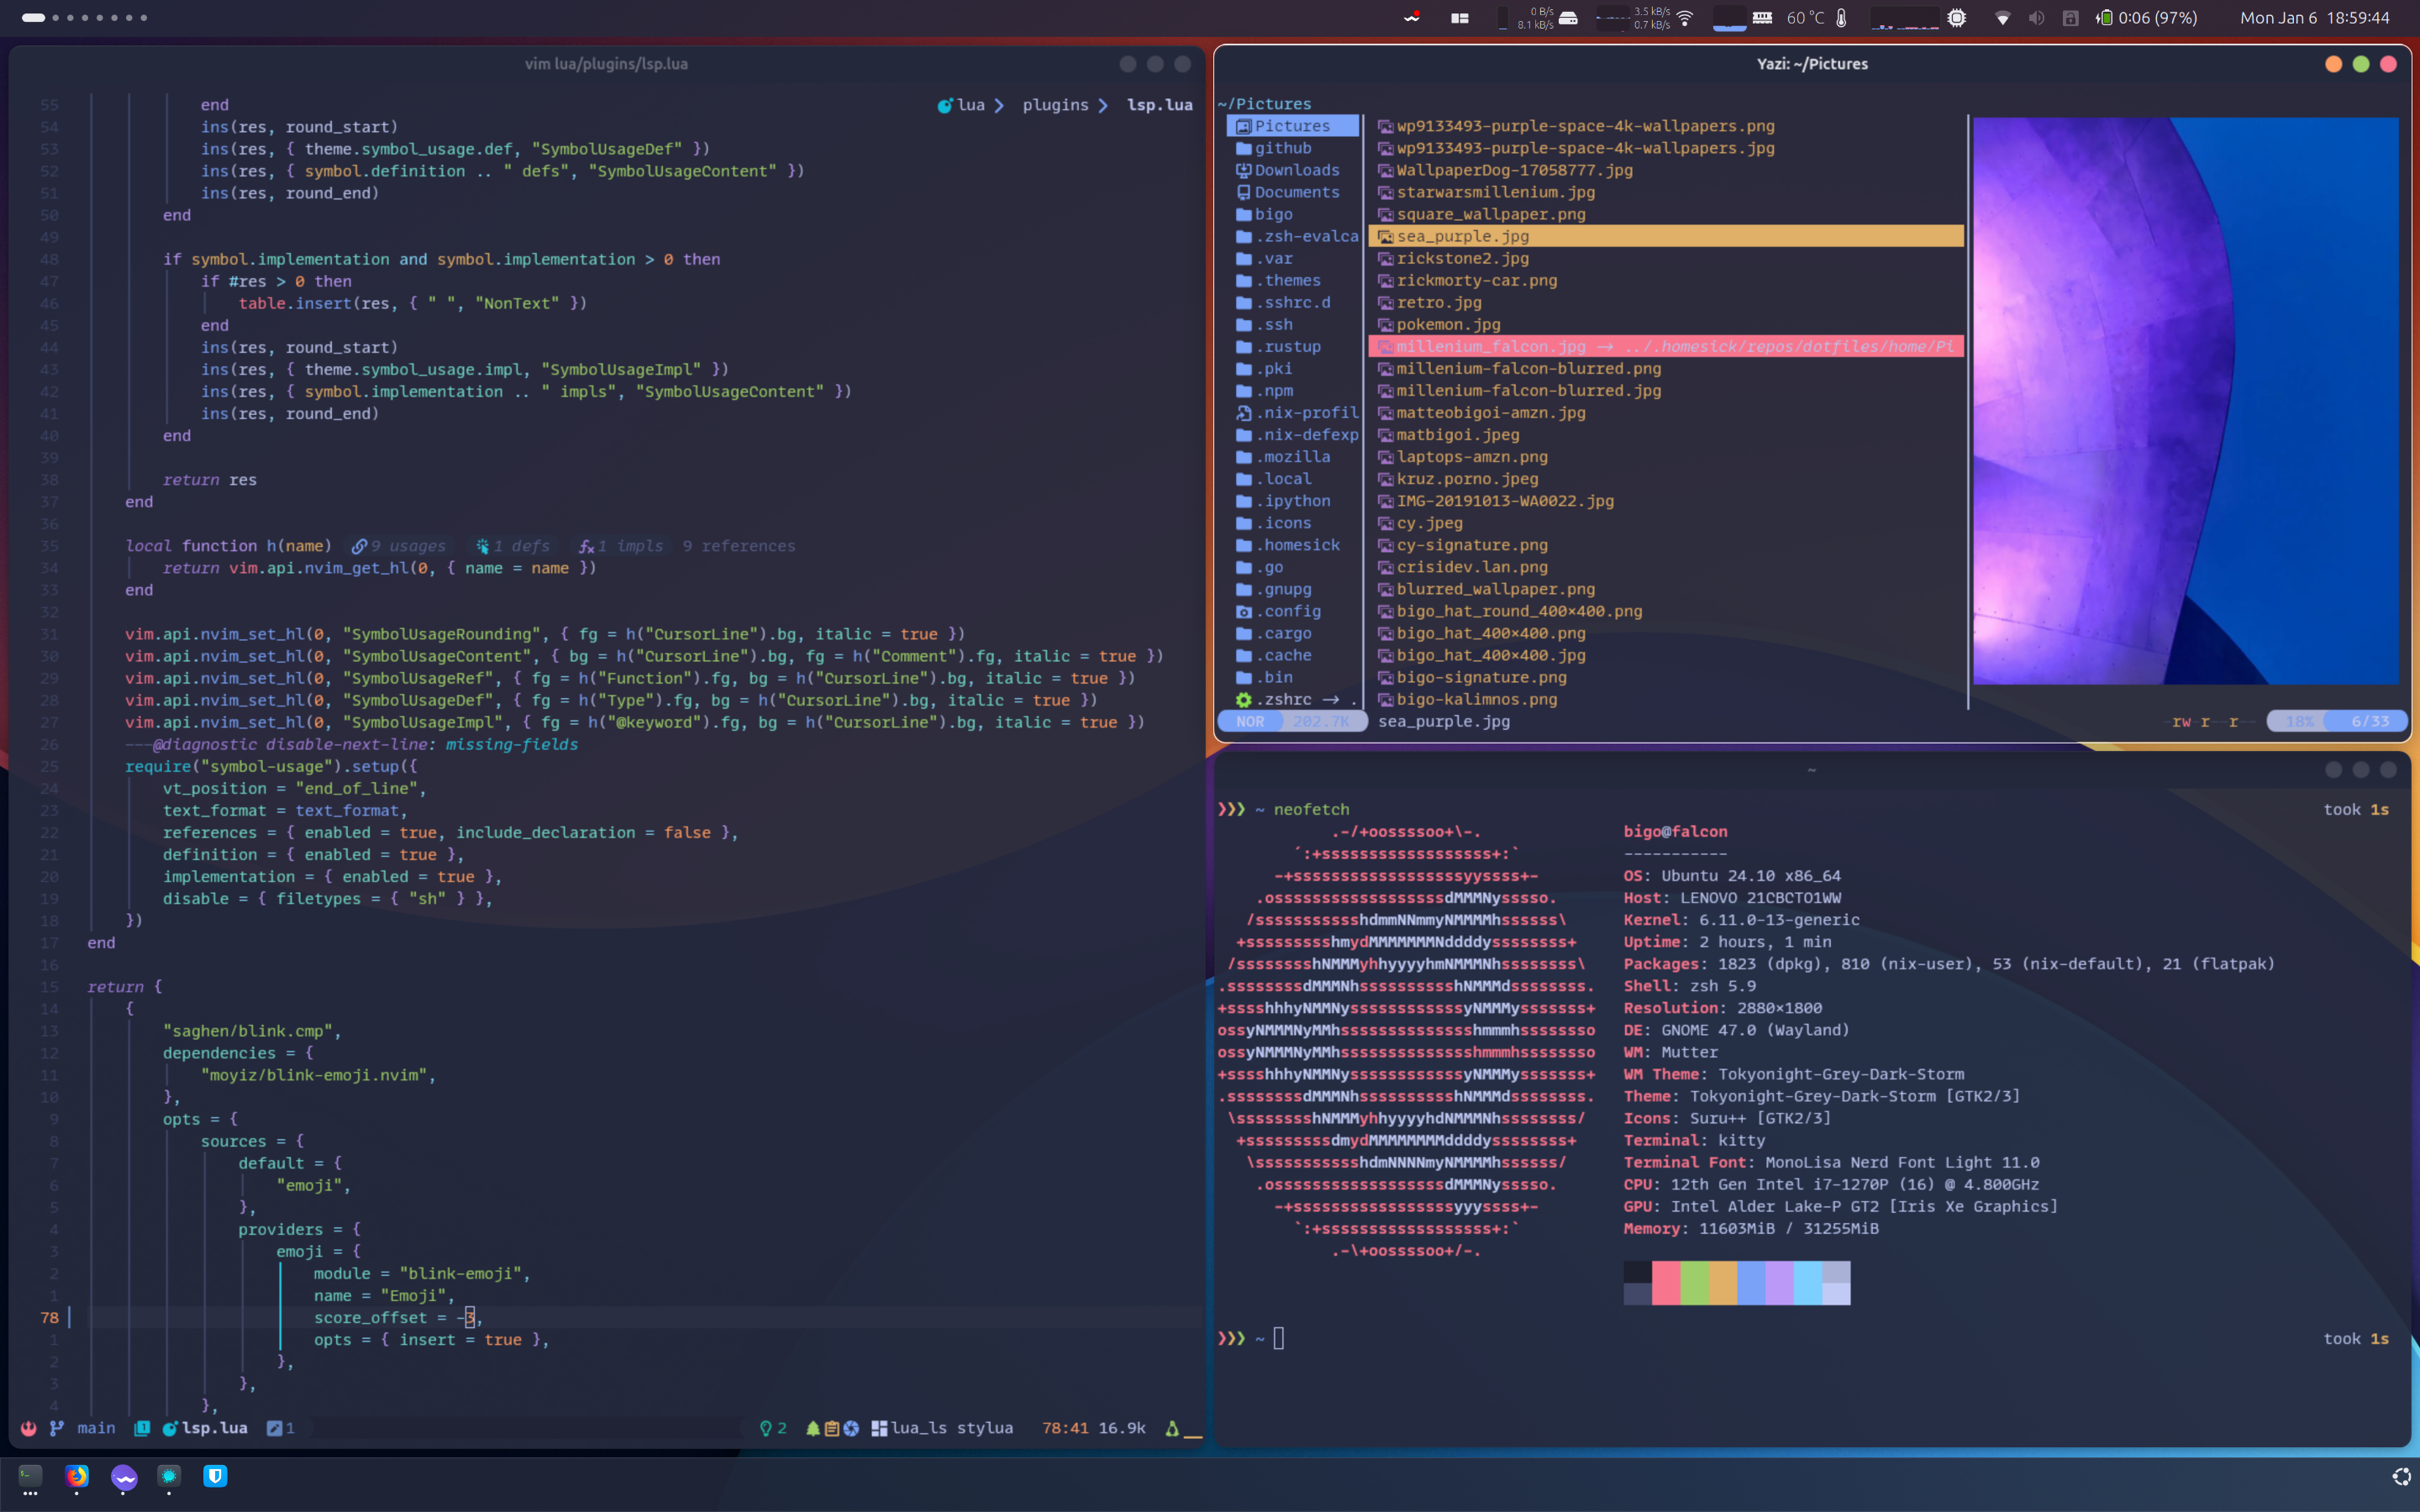
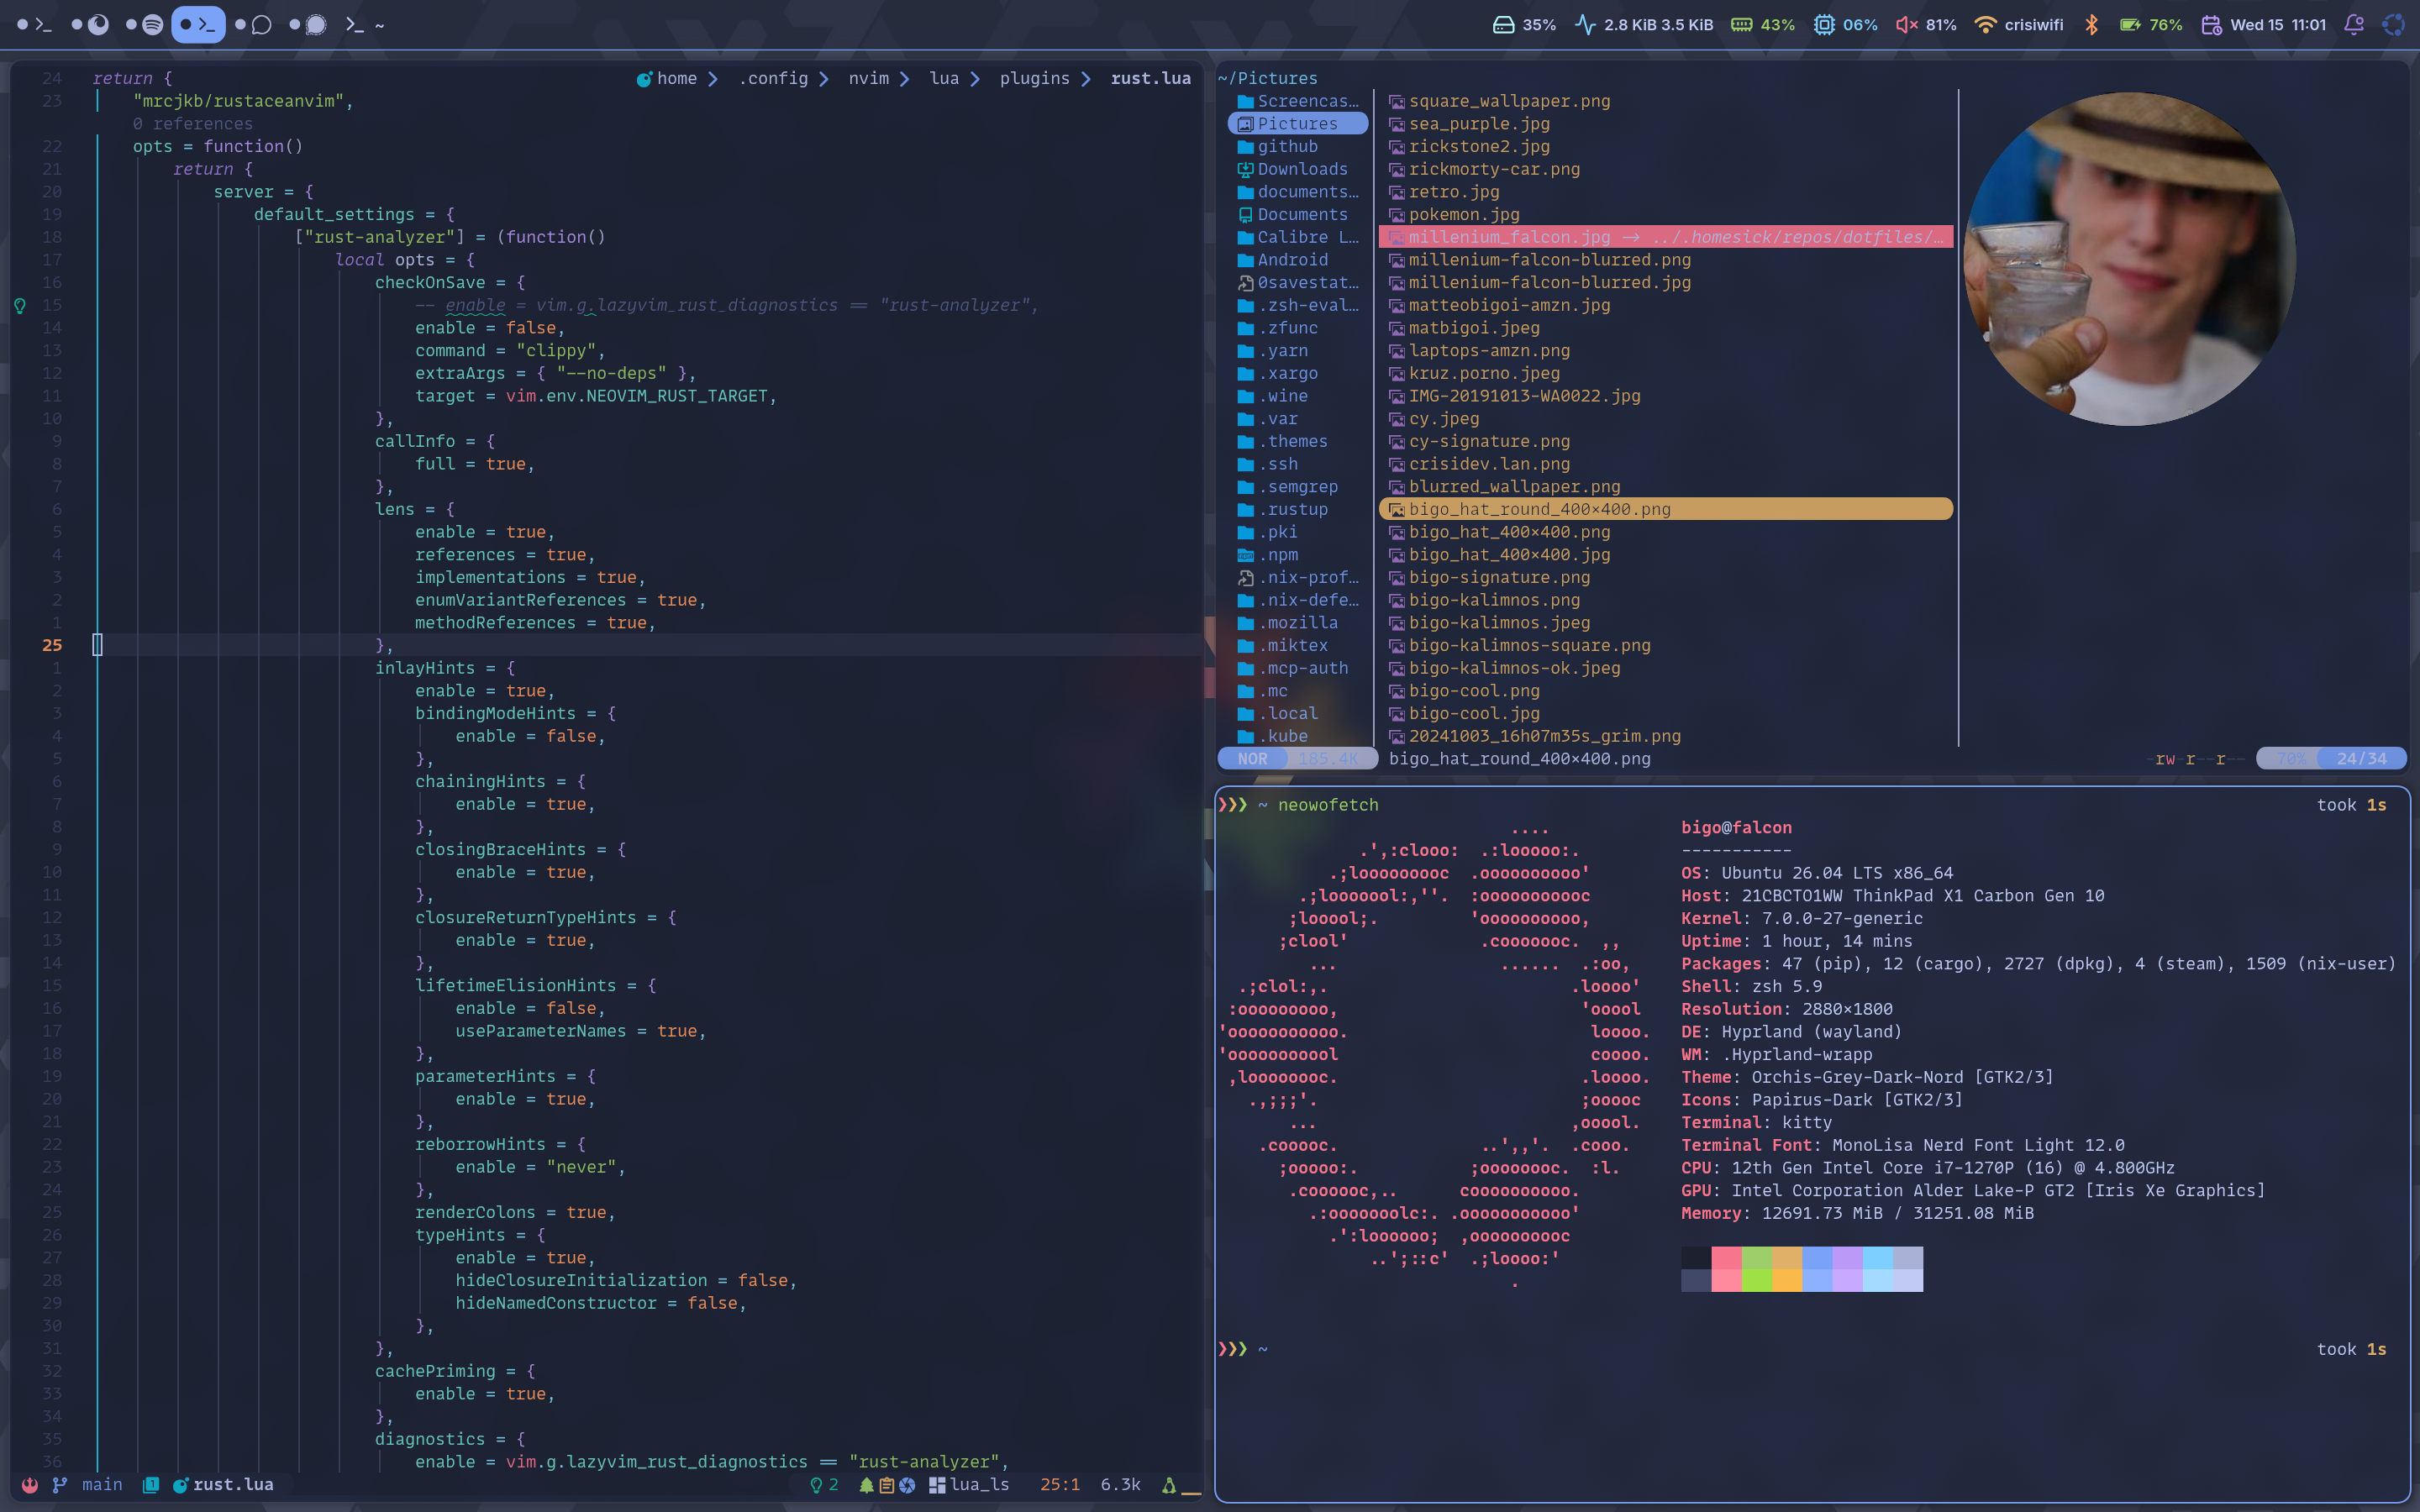
Remove several systemd services I don't use anymore

diff --git a/README.md b/README.md
@@ -13,10 +13,9 @@ Take what you need, it also comes warrant free 😊
 ## Installation
 
 ```sh
-❯❯❯ git clone https://github.com/andsens/homeshick.git $HOME/.homesick/repos/homeshick
-❯❯❯ git clone https://github.com/crisidev/dotfiles.git $HOME/.homesick/repos/dotfiles
-❯❯❯ source "$HOME/.homesick/repos/homeshick/homeshick.sh"
-❯❯❯ homeshick link dotfiles
+❯❯❯ git clone https://github.com/crisidev/dotfiles.git $HOME/.config/home-manager
+❯❯❯ cd $HOME/.config/home-manager
+❯❯❯ ./home-manager switch
 ```
 
 ## Hyprland